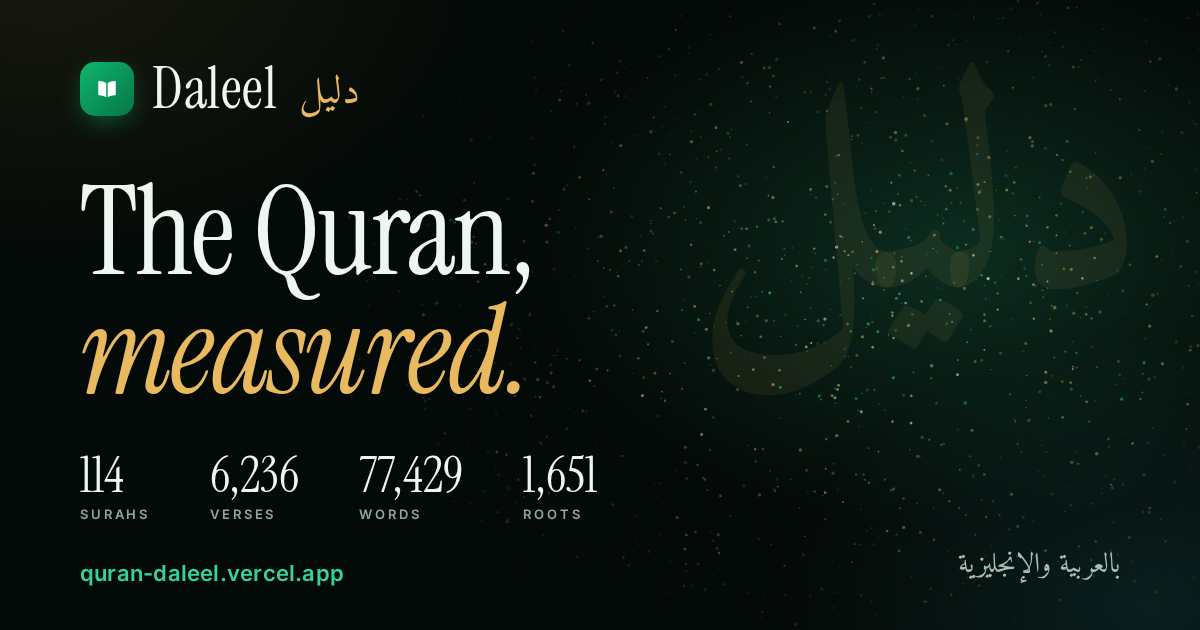
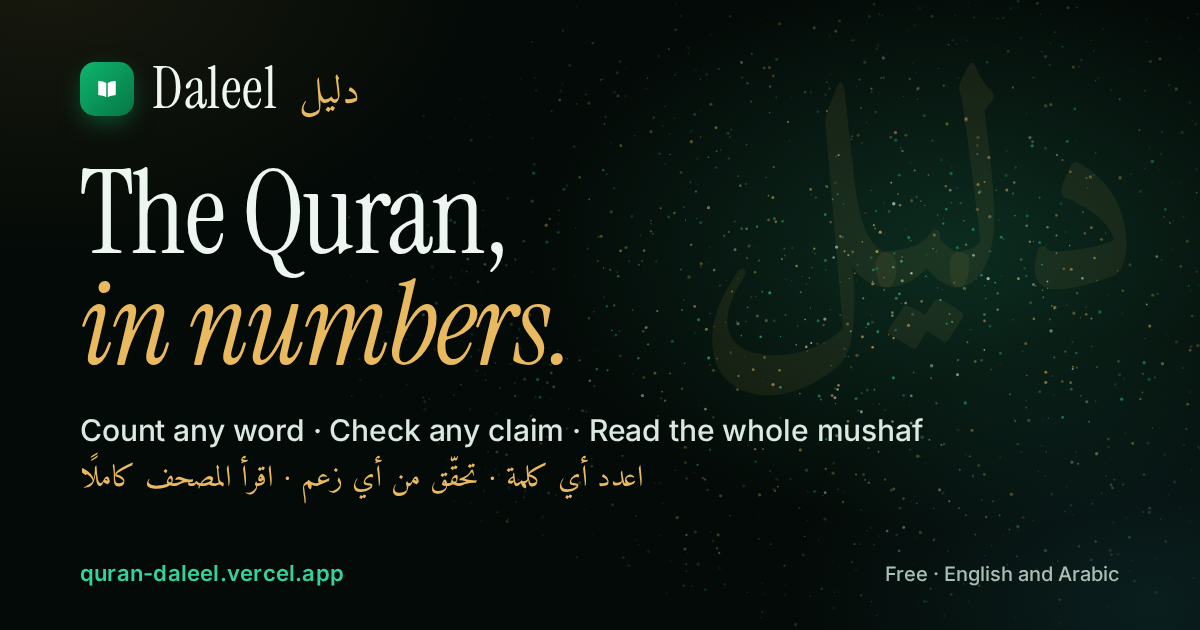
Say plainly what Daleel is, a bilingual root card, and a situation finder that works without Jev (#15)
People who were shown the site couldn't tell what it was for. The landing
page now opens with "Free, in English and Arabic", "The Quran, in
numbers." (as the Arabic already read) and one plain paragraph: Daleel
counts every word of the Quran and explains what it finds, so you can
check famous claims like "the word day appears 365 times" against the text
itself, look up any word, and read the mushaf. Titles, link previews and
the share image say the same; the app's home buttons read "Check the
famous claims" and "Explore the numbers".

"One root, many words": كَاتِب is "writer" (not "scribe"); in English each
word shows how it sounds with the root letters marked, and in Arabic each
word now shows its English meaning. كَتَبَ stays "he wrote".

The Library's "A lesson for where you are" found nothing for everyday
situations like a long job search, and every Jev call is refused (the AI
Gateway's free tier doesn't include the model). Lessons now know work,
setbacks, worry, money and sin in both languages, and words of joy count
for the du'a finder only when not negated ("haven't been successful" is no
reason for a du'a of praise).

Claude-Session: https://claude.ai/code/session_01DNFKAvyJkqzaxCfM77cKiw

diff --git a/web/index.html b/web/index.html
@@ -8,8 +8,8 @@
 if (location.hostname === 'heshamabourokaia.github.io')
   location.replace('https://quran-daleel.vercel.app' + location.pathname.replace(/^\/quran-text-analytics/, '') + location.search + location.hash);
 </script>
-<title>Daleel · The Quran, measured</title>
-<meta name="description" content="Interactive analytics over the full Quranic Arabic Corpus: 114 surahs, 6,236 verses and 77,429 morphologically tagged words, with a claim auditor, machine learning lab and bilingual interface." />
+<title>Daleel · The Quran, in numbers</title>
+<meta name="description" content="Daleel counts every word of the Quran and explains what it finds in plain words. Check famous claims about the Quran against the text itself, look up any word, and read the whole mushaf. Free, in English and Arabic." />
 <link rel="canonical" href="https://quran-daleel.vercel.app/" />
 <link rel="icon" type="image/svg+xml" href="favicon.svg" />
 <meta name="application-name" content="Daleel" />
@@ -18,15 +18,15 @@ if (location.hostname === 'heshamabourokaia.github.io')
 <meta property="og:type" content="website" />
 <meta property="og:url" content="https://quran-daleel.vercel.app/" />
 <meta property="og:site_name" content="Daleel" />
-<meta property="og:title" content="Daleel · The Quran, measured" />
-<meta property="og:description" content="The Quran, measured. 114 surahs, 6,236 verses, 77,429 words. Interactive charts, a machine learning lab, word search and a claim auditor. English and Arabic." />
+<meta property="og:title" content="Daleel · The Quran, in numbers" />
+<meta property="og:description" content="Daleel counts every word of the Quran and explains what it finds in plain words. Check famous claims about the Quran against the text itself, look up any word, and read the whole mushaf. Free, in English and Arabic." />
 <meta property="og:image" content="https://quran-daleel.vercel.app/og-image.png" />
 <meta property="og:image:width" content="1200" />
 <meta property="og:image:height" content="630" />
 <meta property="og:locale" content="en_AU" />
 <meta name="twitter:card" content="summary_large_image" />
-<meta name="twitter:title" content="Daleel · The Quran, measured" />
-<meta name="twitter:description" content="The Quran, measured. 114 surahs, 6,236 verses, 77,429 words. Interactive charts, a machine learning lab, word search and a claim auditor. English and Arabic." />
+<meta name="twitter:title" content="Daleel · The Quran, in numbers" />
+<meta name="twitter:description" content="Daleel counts every word of the Quran and explains what it finds in plain words. Check famous claims about the Quran against the text itself, look up any word, and read the whole mushaf. Free, in English and Arabic." />
 <meta name="twitter:image" content="https://quran-daleel.vercel.app/og-image.png" />
 <link rel="preconnect" href="https://fonts.googleapis.com">
 <link rel="preconnect" href="https://fonts.gstatic.com" crossorigin>
@@ -269,7 +269,9 @@ if (location.hostname === 'heshamabourokaia.github.io')
   .derived li:hover{border-color:rgba(233,185,95,.45);background:rgba(233,185,95,.07)}
   .derived b{display:block;font-family:var(--ar-display);font-size:1.75rem;font-weight:400;line-height:1.5}
   .derived span{font-size:.8rem;color:var(--on-dark-3)}
-  html[lang=ar] .derived span{display:none}
+  .derived .tr{display:block;font-style:normal;font-size:.82rem;letter-spacing:.03em;color:var(--on-dark-2);margin:0 0 3px}
+  .derived .tr u{text-decoration:none;color:var(--gold);font-weight:600}
+  html[lang=ar] .derived .tr{display:none}
   .fnote{text-align:center;color:var(--on-dark-3);font-size:.95rem;margin:34px auto 0;max-width:640px;line-height:1.7}
 
   /* ── claims: glass cards over the night, each lit by its verdict (emerald exact, teal parity, gold differs) ── */
@@ -585,11 +587,11 @@ if (location.hostname === 'heshamabourokaia.github.io')
 <main>
 <header class="hero" id="top">
   <div class="hero-in">
-    <p class="eyebrow"><span class="pulse" aria-hidden="true"></span><span data-i18n="eyebrow">Built on the Quranic Arabic Corpus</span></p>
-    <h1 class="display" id="h1"><span class="l1" data-i18n="h1a">The Quran,</span><span class="l2" data-i18n="h1b">measured.</span></h1>
-    <p class="lede" data-i18n="herosub">Every verse, word and root of the Quranic Arabic Corpus, counted live in your browser. Scroll to see what the numbers show, then open the app and check them yourself.</p>
+    <p class="eyebrow"><span class="pulse" aria-hidden="true"></span><span data-i18n="eyebrow">Free, in English and Arabic</span></p>
+    <h1 class="display" id="h1"><span class="l1" data-i18n="h1a">The Quran,</span><span class="l2" data-i18n="h1b">in numbers.</span></h1>
+    <p class="lede" data-i18n="herosub">Daleel counts every word of the Quran and explains what it finds, in plain words. Check famous claims like «the word day appears 365 times» against the text itself, look up any word, and read the whole mushaf.</p>
     <div class="ctas">
-      <a class="btn primary applink magnetic" href="app.html"><span data-i18n="cta1">Open the app</span><svg class="arr" viewBox="0 0 16 16" aria-hidden="true"><path d="M2.5 8h10M9 4.5 12.5 8 9 11.5" fill="none" stroke="currentColor" stroke-width="1.6" stroke-linecap="round" stroke-linejoin="round"/></svg></a>
+      <a class="btn primary applink magnetic" href="app.html"><span data-i18n="cta1">Start exploring</span><svg class="arr" viewBox="0 0 16 16" aria-hidden="true"><path d="M2.5 8h10M9 4.5 12.5 8 9 11.5" fill="none" stroke="currentColor" stroke-width="1.6" stroke-linecap="round" stroke-linejoin="round"/></svg></a>
       <a class="btn ghost magnetic" href="#tour"><span data-i18n="cta2">Take the tour</span><svg class="arr down" viewBox="0 0 16 16" aria-hidden="true"><path d="M2.5 8h10M9 4.5 12.5 8 9 11.5" fill="none" stroke="currentColor" stroke-width="1.6" stroke-linecap="round" stroke-linejoin="round"/></svg></a>
     </div>
   </div>
@@ -643,17 +645,17 @@ if (location.hostname === 'heshamabourokaia.github.io')
     <div class="frows">
       <div class="frow"><span class="flabel" data-i18n="fn.r1">Words in the text</span><span class="fbar"><i data-w="words"></i></span><span class="fnum num" data-count="words">77,429</span></div>
       <div class="frow"><span class="flabel" data-i18n="fn.r2">Distinct written forms</span><span class="fbar"><i data-w="forms"></i></span><span class="fnum num" data-count="forms">14,710</span></div>
-      <div class="frow"><span class="flabel" data-i18n="fn.r3">Lemmas, the dictionary headwords</span><span class="fbar"><i data-w="lemmas"></i></span><span class="fnum num" data-count="lemmas">4,771</span></div>
+      <div class="frow"><span class="flabel" data-i18n="fn.r3">Words, counting all forms of a word as one</span><span class="fbar"><i data-w="lemmas"></i></span><span class="fnum num" data-count="lemmas">4,771</span></div>
       <div class="frow"><span class="flabel" data-i18n="fn.r4">Roots</span><span class="fbar"><i data-w="roots"></i></span><span class="fnum num" data-count="roots">1,651</span></div>
     </div>
     <div class="rootdemo rv">
       <p class="rootcap" data-i18n="fn.eg">One root, many words</p>
       <div class="rootcore" lang="ar"><span class="rl">ك</span><span class="rl">ت</span><span class="rl">ب</span></div>
       <ul class="derived" lang="ar">
-        <li><b>كِتَاب</b><span lang="en" data-i18n="g.book">book</span></li>
-        <li><b>كَتَبَ</b><span lang="en" data-i18n="g.wrote">he wrote</span></li>
-        <li><b>كَاتِب</b><span lang="en" data-i18n="g.scribe">scribe</span></li>
-        <li><b>مَكْتُوب</b><span lang="en" data-i18n="g.written">written</span></li>
+        <li><b>كِتَاب</b><i class="tr" lang="en"><u>k</u>i<u>t</u>ā<u>b</u></i><span lang="en" data-i18n="g.book">book</span></li>
+        <li><b>كَتَبَ</b><i class="tr" lang="en"><u>k</u>a<u>t</u>a<u>b</u>a</i><span lang="en" data-i18n="g.wrote">he wrote</span></li>
+        <li><b>كَاتِب</b><i class="tr" lang="en"><u>k</u>ā<u>t</u>i<u>b</u></i><span lang="en" data-i18n="g.writer">writer</span></li>
+        <li><b>مَكْتُوب</b><i class="tr" lang="en">ma<u>k</u><u>t</u>ū<u>b</u></i><span lang="en" data-i18n="g.written">written</span></li>
       </ul>
     </div>
     <p class="fnote rv" data-i18n="fn.note">8,619 written forms occur only once.</p>
@@ -922,7 +924,7 @@ if (location.hostname === 'heshamabourokaia.github.io')
       <h2 class="display" data-i18n="fin.h">It began with one word.</h2>
       <p class="sub" data-i18n="fin.p">Iqra: read.</p>
       <div class="ctas">
-        <a class="btn primary applink magnetic" href="app.html"><span data-i18n="cta1">Open the app</span><svg class="arr" viewBox="0 0 16 16" aria-hidden="true"><path d="M2.5 8h10M9 4.5 12.5 8 9 11.5" fill="none" stroke="currentColor" stroke-width="1.6" stroke-linecap="round" stroke-linejoin="round"/></svg></a>
+        <a class="btn primary applink magnetic" href="app.html"><span data-i18n="cta1">Start exploring</span><svg class="arr" viewBox="0 0 16 16" aria-hidden="true"><path d="M2.5 8h10M9 4.5 12.5 8 9 11.5" fill="none" stroke="currentColor" stroke-width="1.6" stroke-linecap="round" stroke-linejoin="round"/></svg></a>
         <a class="btn ghost magnetic" data-view="reader" href="app.html?view=reader"><span data-i18n="fin.cta2">Start reading</span></a>
       </div>
     </div>
@@ -1010,12 +1012,12 @@ const I18N = {
   'nav.claims': {en:'Claim auditor', ar:'مدقّق المزاعم'},
   'nav.lab':    {en:'The lab', ar:'المختبر'},
   'nav.open':   {en:'Open the app', ar:'افتح التطبيق'},
-  'eyebrow':    {en:'Built on the Quranic Arabic Corpus', ar:'مبنيٌّ على المدونة الصرفية للقرآن الكريم'},
+  'eyebrow':    {en:'Free, in English and Arabic', ar:'مجانًا، بالعربية والإنجليزية'},
   'h1a':        {en:'The Quran,', ar:'القرآن'},
-  'h1b':        {en:'measured.', ar:'بالأرقام.'},
-  'herosub':    {en:'Every verse, word and root of the Quranic Arabic Corpus, counted live in your browser. Scroll to see what the numbers show, then open the app and check them yourself.',
-                 ar:'كل آيةٍ وكلمةٍ وجذرٍ في المدونة الصرفية للقرآن الكريم، معدودةٌ لحظيًا داخل متصفحك. مرِّر لترى ما تكشفه الأرقام، ثم افتح التطبيق وتحقّق منها بنفسك.'},
-  'cta1':       {en:'Open the app', ar:'افتح التطبيق'},
+  'h1b':        {en:'in numbers.', ar:'بالأرقام.'},
+  'herosub':    {en:'Daleel counts every word of the Quran and explains what it finds, in plain words. Check famous claims like «the word day appears 365 times» against the text itself, look up any word, and read the whole mushaf.',
+                 ar:'يعدّ «دليل» كل كلمةٍ في القرآن، ويشرح ما يجده بكلماتٍ بسيطة. تحقّق بنفسك من الأعداد المتداولة، مثل «كلمة يوم وردت ٣٦٥ مرة»، على نص القرآن نفسه، وابحث عن أي كلمة، واقرأ المصحف كاملًا.'},
+  'cta1':       {en:'Start exploring', ar:'ابدأ الاستكشاف'},
   'cta2':       {en:'Take the tour', ar:'ابدأ الجولة'},
   'stat.surahs':{en:'Surahs', ar:'سورة'},
   'stat.verses':{en:'Verses', ar:'آية'},
@@ -1050,7 +1052,7 @@ const I18N = {
   'fn.eg':      {en:'One root, many words', ar:'جذرٌ واحد، وكلماتٌ كثيرة'},
   'g.book':     {en:'book', ar:'book'},
   'g.wrote':    {en:'he wrote', ar:'he wrote'},
-  'g.scribe':   {en:'scribe', ar:'scribe'},
+  'g.writer':   {en:'writer', ar:'writer'},
   'g.written':  {en:'written', ar:'written'},
   'fn.note':    {en:'{hapax} written forms occur only once. The most frequent root, {topRoot}, appears {topRootC} times.',
                  ar:'{hapax} صيغة لا ترد إلا مرةً واحدة، والجذر الأكثر ورودًا هو {topRoot}، إذ يرد {topRootC} مرة.'},

diff --git a/web/app.html b/web/app.html
@@ -8,8 +8,8 @@
 if (location.hostname === 'heshamabourokaia.github.io')
   location.replace('https://quran-daleel.vercel.app' + location.pathname.replace(/^\/quran-text-analytics/, '') + location.search + location.hash);
 </script>
-<title>Daleel · Quran text analytics</title>
-<meta name="description" content="Interactive analytics for the Quran: 114 surahs, 6,236 verses and 77,429 words, covering word and root frequencies, Meccan and Medinan comparisons, letter statistics and a claim auditor." />
+<title>Daleel · The Quran, in numbers</title>
+<meta name="description" content="Daleel counts every word of the Quran and explains what it finds in plain words. Check famous claims about the Quran against the text itself, look up any word, and read the whole mushaf. Free, in English and Arabic." />
 <link rel="canonical" href="https://quran-daleel.vercel.app/app.html" />
 <link rel="icon" type="image/svg+xml" href="favicon.svg" />
 <meta name="application-name" content="Daleel" />
@@ -18,16 +18,16 @@ if (location.hostname === 'heshamabourokaia.github.io')
 <meta property="og:type" content="website" />
 <meta property="og:url" content="https://quran-daleel.vercel.app/app.html" />
 <meta property="og:site_name" content="Daleel" />
-<meta property="og:title" content="Daleel · The Quran, measured" />
-<meta property="og:description" content="114 surahs, 6,236 verses, 77,429 words. Interactive charts for word frequencies, roots, Mecca vs Medina, letter statistics and a claim auditor. English and Arabic." />
+<meta property="og:title" content="Daleel · The Quran, in numbers" />
+<meta property="og:description" content="Daleel counts every word of the Quran and explains what it finds in plain words. Check famous claims about the Quran against the text itself, look up any word, and read the whole mushaf. Free, in English and Arabic." />
 <meta property="og:image" content="https://quran-daleel.vercel.app/og-image.png" />
 <meta property="og:image:width" content="1200" />
 <meta property="og:image:height" content="630" />
 <meta property="og:locale" content="en_AU" />
 <meta property="og:locale:alternate" content="ar_AR" />
 <meta name="twitter:card" content="summary_large_image" />
-<meta name="twitter:title" content="Daleel · The Quran, measured" />
-<meta name="twitter:description" content="114 surahs, 6,236 verses, 77,429 words. Interactive charts for word frequencies, roots, Mecca vs Medina, letter statistics and a claim auditor. English and Arabic." />
+<meta name="twitter:title" content="Daleel · The Quran, in numbers" />
+<meta name="twitter:description" content="Daleel counts every word of the Quran and explains what it finds in plain words. Check famous claims about the Quran against the text itself, look up any word, and read the whole mushaf. Free, in English and Arabic." />
 <meta name="twitter:image" content="https://quran-daleel.vercel.app/og-image.png" />
 <link rel="preconnect" href="https://fonts.googleapis.com">
 <link rel="preconnect" href="https://fonts.gstatic.com" crossorigin>
@@ -668,7 +668,7 @@ if (location.hostname === 'heshamabourokaia.github.io')
   </header>
   <div v-if="sideOpen" class="backdrop" @click="sideOpen=false"></div>
   <aside class="side" :class="{open:sideOpen}">
-    <a class="brand" :href="landingHref"><span class="glyph" aria-hidden="true"></span><span><b class="bname">{{ lang==='ar' ? 'دليل' : 'Daleel' }}</b><small>{{ lang==='ar' ? 'القرآن بالأرقام' : 'The Quran, measured' }}</small></span></a>
+    <a class="brand" :href="landingHref"><span class="glyph" aria-hidden="true"></span><span><b class="bname">{{ lang==='ar' ? 'دليل' : 'Daleel' }}</b><small>{{ lang==='ar' ? 'القرآن بالأرقام' : 'The Quran, in numbers' }}</small></span></a>
     <div class="langtoggle">
       <button :class="{on:lang==='en'}" :aria-pressed="lang==='en'" @click="lang='en'">English</button>
       <button :class="{on:lang==='ar'}" :aria-pressed="lang==='ar'" lang="ar" @click="lang='ar'">العربية</button>
@@ -697,8 +697,8 @@ if (location.hostname === 'heshamabourokaia.github.io')
           ? 'استكشف القرآن الكريم من خلال أرقامه: ابحث عن أي كلمةٍ بجميع صيغها، وانظر ما يكشفه العدّ الدقيق، ودقّق الأعداد المتداولة عن القرآن، واقرأ المصحف كاملًا. وكل رقمٍ تراه هنا يُعَدّ لحظيًا من نص القرآن داخل متصفحك، من غير أي إدخالٍ يدوي.'
           : 'Explore the Quran through its numbers: search any word in all its forms, see what careful counting shows, check famous claims about the Quran, and read the mushaf. Every number is counted live from the Quran\'s text in your browser; nothing is typed in by hand.' }}</p>
         <div class="ctas">
-          <button class="btn primary magnetic" type="button" @click="go('auditor')"><span>{{ lang==='ar' ? 'دقّق الأعداد المتداولة' : 'Audit the famous claims' }}</span><svg class="arr" viewBox="0 0 16 16" aria-hidden="true"><path d="M2.5 8h10M9 4.5 12.5 8 9 11.5" fill="none" stroke="currentColor" stroke-width="1.6" stroke-linecap="round" stroke-linejoin="round"/></svg></button>
-          <button class="btn ghost magnetic" type="button" @click="go('overview')"><span>{{ lang==='ar' ? 'استكشف البيانات' : 'Explore the data' }}</span></button>
+          <button class="btn primary magnetic" type="button" @click="go('auditor')"><span>{{ lang==='ar' ? 'تحقّق من الأعداد المتداولة' : 'Check the famous claims' }}</span><svg class="arr" viewBox="0 0 16 16" aria-hidden="true"><path d="M2.5 8h10M9 4.5 12.5 8 9 11.5" fill="none" stroke="currentColor" stroke-width="1.6" stroke-linecap="round" stroke-linejoin="round"/></svg></button>
+          <button class="btn ghost magnetic" type="button" @click="go('overview')"><span>{{ lang==='ar' ? 'استكشف الأرقام' : 'Explore the numbers' }}</span></button>
         </div>
         <form class="askbox" @submit.prevent="askSite">
           <input class="q" v-model="ask.text" maxlength="200" :placeholder="lang==='ar' ? 'اسأل الموقع: قصة يوسف، دعاءٌ للقلق، سورة الكهف…' : 'Ask the site: the story of Yusuf, a du’a for anxiety, surah Al-Kahf…'" :aria-label="lang==='ar' ? 'اسأل الموقع' : 'Ask the site'">
@@ -1869,10 +1869,10 @@ createApp({
     };
   },
   computed:{
-    heroLines(){ return this.lang==='ar' ? [['القرآن'],['بالأرقام.']] : [['The','Quran,'],['measured.']]; },
+    heroLines(){ return this.lang==='ar' ? [['القرآن'],['بالأرقام.']] : [['The','Quran,'],['in','numbers.']]; },
     heroEyebrow(){ return this.lang==='ar'
-      ? `${this.f(this.T.suras)} سورة · ${this.f(this.T.verses)} آية · تُحسب لحظيًا`
-      : `${this.f(this.T.suras)} surahs · ${this.f(this.T.verses)} verses · computed live`; },
+      ? `${this.f(this.T.suras)} سورة · ${this.f(this.T.verses)} آية · كل كلمةٍ معدودة`
+      : `${this.f(this.T.suras)} surahs · ${this.f(this.T.verses)} verses · every word counted`; },
     landingHref(){ return this.lang==='ar' ? './?lang=ar' : './'; },
     safety(){ return this.lang==='ar'
       ? {text:'إن كانت تراودك أفكارٌ بإنهاء حياتك أو إيذاء نفسك، فأرجوك اطلب المساعدة الآن: اتصل برقم الطوارئ في بلدك، أو بخط مساندةٍ نفسية، أو تحدّث إلى شخصٍ تثق به. لستَ وحدك، وتستحق الدعم.', link:'ابحث عن خط مساندة في بلدك'}

diff --git a/web/jev-client.js b/web/jev-client.js
@@ -484,12 +484,20 @@
         'والدين', 'ثبات', 'صبر', 'الاخرة', 'قلب'],
     },
     lessons: {
-      faith: ['doubt', 'believe', 'belief', 'faith', 'god', 'unseen', 'purpose', 'meaning of life', 'ايمان', 'شك', 'عقيدة', 'غيب'],
+      faith: ['doubt', 'believe', 'belief', 'faith', 'god', 'unseen', 'purpose', 'meaning of life', 'ايمان', 'شك', 'عقيدة', 'غيب',
+        // hope, worry, provision and sin: Trust in God, Hope in God's Mercy, Repentance
+        'hope', 'hopeless', 'despair', 'anxious', 'anxiety', 'worried', 'worry', 'afraid', 'future', 'money', 'debt', 'rizq', 'provision', 'sin', 'sinned', 'guilt', 'guilty', 'regret', 'repent',
+        'امل', 'ياس', 'قنوط', 'قلق', 'خوف', 'مستقبل', 'رزق', 'مال', 'ديون', 'فقر', 'ذنب', 'ذنوب', 'توبة', 'ندم'],
       ethics: ['honest', 'honesty', 'lie', 'lying', 'cheat', 'cheating', 'justice', 'fair', 'trust', 'promise', 'صدق', 'كذب', 'غش', 'عدل', 'امانة', 'وعد'],
       social: ['friend', 'friends', 'neighbour', 'neighbor', 'community', 'people', 'conflict', 'argument', 'colleague', 'society', 'اصدقاء', 'صديق', 'جار', 'جيران', 'مجتمع', 'خلاف', 'الناس'],
       worship: ['prayer', 'pray', 'fasting', 'ramadan', 'salah', 'quran', 'worship', 'mosque', 'صلاة', 'صيام', 'رمضان', 'عبادة', 'مسجد'],
       character: ['anger', 'angry', 'patience', 'patient', 'arrogant', 'arrogance', 'humble', 'jealous', 'envy', 'pride', 'self-control', 'temper',
-        'غضب', 'صبر', 'كبر', 'تواضع', 'غيرة', 'حسد'],
+        'غضب', 'صبر', 'كبر', 'تواضع', 'غيرة', 'حسد',
+        // hard times, work and setbacks: Patience, Perseverance, Steadfastness, Reliance on God
+        'hardship', 'hard time', 'difficult', 'struggle', 'struggling', 'job', 'work', 'unemployed', 'jobless', 'career', 'interview', 'rejected', 'rejection',
+        'fail', 'failed', 'failing', 'failure', 'unsuccessful', 'give up', 'giving up', 'waiting', 'stuck', 'setback', 'persevere', 'perseverance', 'steadfast',
+        'stress', 'stressed', 'frustrated', 'exhausted', 'grief', 'grieving', 'courage',
+        'صعوبة', 'ضيق', 'ابتلاء', 'بلاء', 'وظيفة', 'عمل', 'بطالة', 'عاطل', 'فشلت', 'فشل', 'رفضت', 'رفض', 'استسلم', 'انتظار', 'ضغط', 'تعبت', 'شجاعة', 'قناعة'],
       consequences: ['consequence', 'punishment', 'reward', 'deeds', 'karma', 'judgment', 'accountable', 'عاقبة', 'عقاب', 'جزاء', 'حساب'],
       knowledge: ['study', 'studying', 'learn', 'learning', 'exam', 'exams', 'school', 'university', 'knowledge', 'think', 'علم', 'دراسة', 'امتحان', 'تعلم', 'مدرسة', 'جامعة'],
       family: ['parents', 'mother', 'mom', 'father', 'dad', 'marriage', 'married', 'wife', 'husband', 'divorce', 'children', 'kids', 'son', 'daughter', 'family',
@@ -497,13 +505,28 @@
     },
   };
 
+  // Words whose sense flips when negated: "I haven't been successful" or "not happy" is no reason for a
+  // du'a of praise. They count only where no negation comes in the three words before them.
+  const FLIPS = new Set(SITUATIONS.duas.praise);
+  const NEG_EN = /^(?:not|no|never|without|nor|hardly|barely|cannot|[a-z]+n't)$/;
+  const NEG_AR = /^(?:و|ف)?(?:لم|لا|لن|ما|ليس|لست|لسنا|غير|بدون|عدم)$/;
+  function positiveKey(lower, norm, k) {
+    const ar = AR_LETTER.test(k), text = ar ? norm : lower, re = new RegExp(keyRe(k).source, 'g');
+    for (let m; (m = re.exec(text));) {
+      const before = text.slice(0, m.index + 1).trim().split(/\s+/).slice(-3);
+      if (!before.some(w => (ar ? NEG_AR : NEG_EN).test(w))) return true;
+      re.lastIndex = m.index + 1;
+    }
+    return false;
+  }
+
   function situationLocal(text, lib) {
     const table = SITUATIONS[lib];
     if (!table) return [];
     const { lower, norm } = prepText(text);
     const out = [];
     for (const [cat, keys] of Object.entries(table)) {
-      const matched = keys.filter(k => hasKey(lower, norm, k));
+      const matched = keys.filter(k => hasKey(lower, norm, k) && (!FLIPS.has(k) || positiveKey(lower, norm, k)));
       if (matched.length) out.push({ cat, score: matched.length, weight: matched.join('').length, matched });
     }
     return out.sort((a, b) => b.score - a.score || b.weight - a.weight);

diff --git a/data-build/jev/test-client.js b/data-build/jev/test-client.js
@@ -153,6 +153,17 @@ const tests = {
     assert.deepEqual(J.situationLocal('المدرسة', 'duas'), [], 'short Arabic keys must not match inside longer words');
     assert.equal(top('امي مريضة', 'lessons'), 'family');
     assert.equal(J.situationLocal('هل اسافر ام ابقى', 'lessons').some(r => r.cat === 'family'), false, 'أم (or) is not a mother');
+    // everyday situations reach the lessons that speak to them, in both languages
+    assert.equal(top("looking for a new job but i haven't been successful for the last 1 year", 'lessons'), 'character');
+    assert.equal(top('أبحث عن عمل منذ سنة ولم أنجح', 'lessons'), 'character');
+    assert.equal(top('I have been struggling for months and I feel like giving up', 'lessons'), 'character');
+    assert.equal(top('I am worried about money and my future', 'lessons'), 'faith');
+    // a negated word of joy is no reason for a du'a of praise
+    assert.equal(top("looking for a new job but i haven't been successful", 'duas'), 'provision');
+    for (const t of ["I'm not happy at all", 'I never felt grateful', 'لست سعيدا'])
+      assert.equal(J.situationLocal(t, 'duas').some(r => r.cat === 'praise'), false, t);
+    assert.equal(top('I passed my exam, alhamdulillah, so happy', 'duas'), 'praise');
+    assert.equal(top('الحمد لله نجحت', 'duas'), 'praise');
   },
   'crisis wording is recognised in both languages, everyday wording is not'() {
     for (const t of ['I want to kill myself', 'thinking about suicide', "I don't want to live anymore", 'I keep hurting myself', 'أريد أن أموت', 'افكر في الانتحار'])
